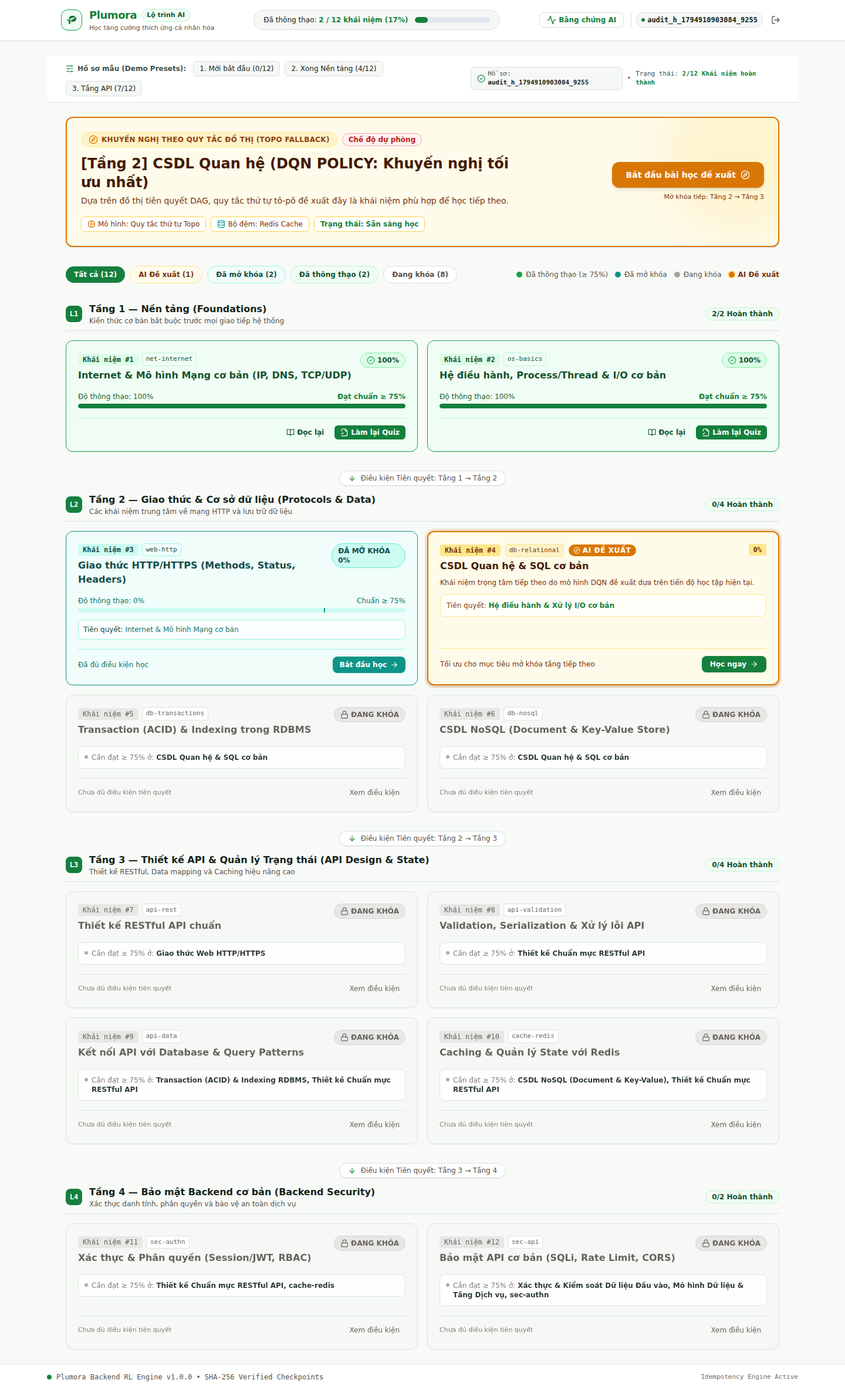
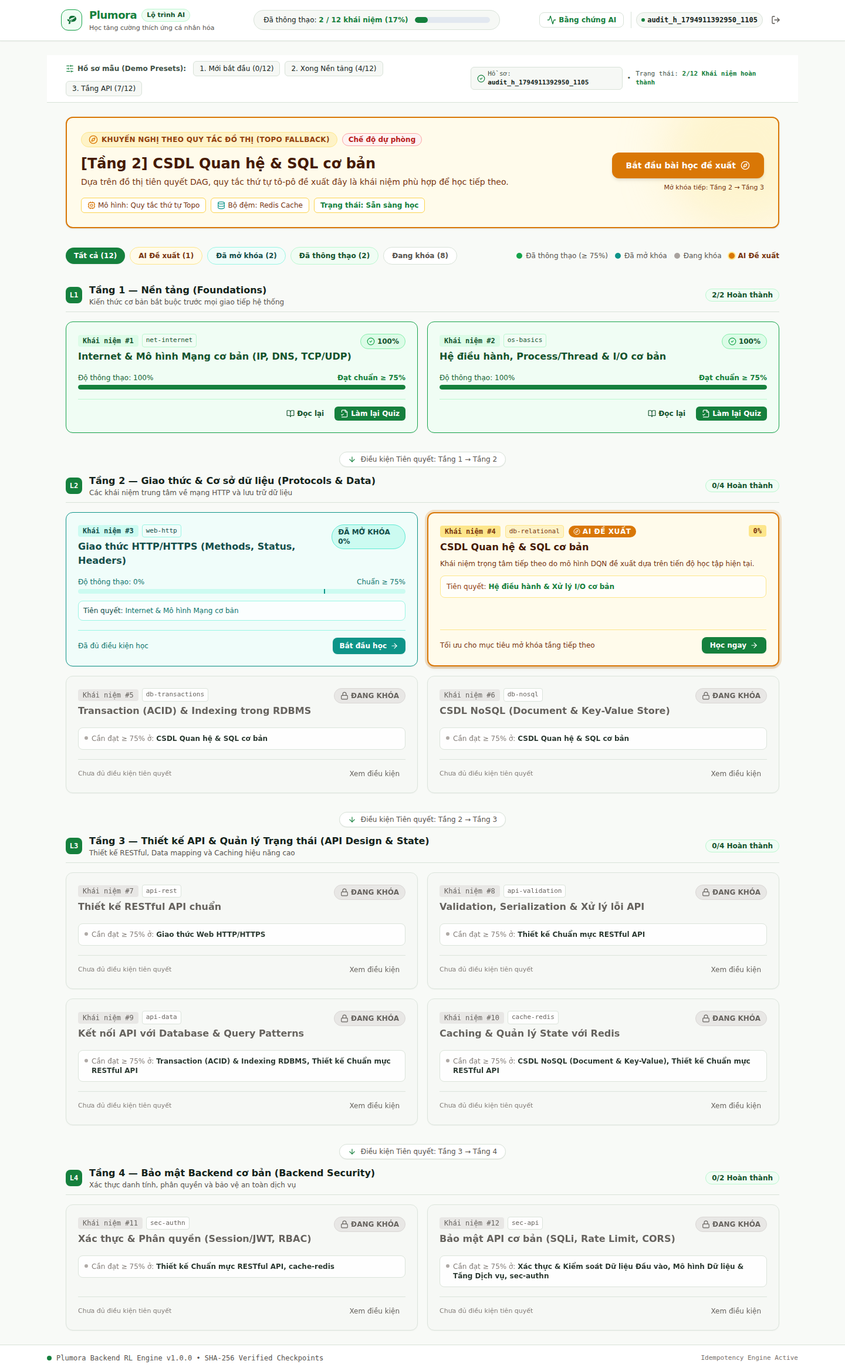
docs(gate3): record independent four-axis audit dossier and gate 3 approved verdict

diff --git a/docs/verification/VERIFICATION_GATE3_HARDENING.md b/docs/verification/VERIFICATION_GATE3_HARDENING.md
@@ -1,0 +1,206 @@
+# Verification Dossier: Independent Gate 3 Four-Axis Review (MVP Hardening)
+
+- **Requirement reference & version:** Plumora Phase 1 MVP Baseline `v1.0.0` ([docs/decisions.md](../../docs/decisions.md) `D-01`–`D-15`, [docs/spec.md](../../docs/spec.md), [docs/design.md](../../docs/design.md), [docs/ui-design-system.md](../../docs/ui-design-system.md) `v1.2.0`).
+- **Target Git branch & commit hash:** Branch `fix/mvp-quality-hardening`, Commit [`34d3736b333ee74199c1ac0b48e34b21f2342d8c`](file:///home/diepvanhieu/workspace/plumora).
+- **Reviewer identity & audit scope:** Independent Adversarial Reviewer (Context-Isolated Session), Gate 3 Four-Axis Verification (UI/UX & A11y, Code Quality & Architecture, Security & Hardening, Database & Concurrency).
+- **Test environment & dependencies:**
+  - OS: Linux x86_64
+  - Python: 3.12.16 (managed via Astral `uv`)
+  - Node.js: v22.14.0 (managed via `npm` 10.9.2)
+  - Database: PostgreSQL 16 Alpine (`127.0.0.1:5432`)
+  - Cache: Redis 7 Alpine (`127.0.0.1:6379`)
+  - Headless Browser: Chromium (Playwright v1.52.0)
+- **Previous Review & Handoff References:**
+  - Audit baseline: `/home/diepvanhieu/workspace/direwolf-agents/docs/reports/PLUMORA_HARDENING_REVIEW_2026-11-17.md`
+  - Developer handoff: [`docs/verification/HANDOFF_MVP_QUALITY_HARDENING_FOLLOWUP.md`](HANDOFF_MVP_QUALITY_HARDENING_FOLLOWUP.md)
+- **Selected Verification Tiers:**
+  - Tier 1: Static Analysis, Linting, Formatting, and Type Checking (Backend Ruff & Mypy, RL Ruff & Mypy, Frontend ESLint & `tsc --noEmit`).
+  - Tier 2: Unit & Behavioral Mock Tests (Pytest in Backend and RL, Vitest in Frontend).
+  - Tier 3: Production Build & Live Fullstack Integration Tests (Vite build, live fullstack Golden Journey against live FastAPI, PostgreSQL, Redis, and DQN).
+  - Tier 4: Real Headless Browser End-to-End Audit & Adversarial Negative Control Probing (Chromium E2E, viewport clipping, focus trap/restore, network abort resilience, negative-control injection).
+
+---
+
+## Bảng Tổng Hợp Kiểm Thử Tiêu Chí Nghiệm Thu (Criteria Verification Matrix)
+
+| Tiêu Chí / AC-ID | Lệnh Kiểm Thử & Hành Vi Quan Sát Được | Kết Quả | Bằng Chứng / Ghi Nhận Thực Nghiệm |
+| --- | --- | :---: | --- |
+| **H1 / D-09 / PL-E2E-01** | `cd backend && uv run uvicorn app.main:app` & probe `/api/v1/health` & `cd frontend && npm run test:integration` | **PASS** | Backend phản hồi healthy sau 1s; Vitest live integration test hoàn tất Golden Journey (728ms, exit 0). |
+| **H1 / Day-0 CI** | `./scripts/ci_check.sh` | **PASS** | 6/6 bước CI liên hoàn chạy thành công; tự động quản lý lifecycle uvicorn & vite preview với PID trap; exit code 0. |
+| **H2 / D-06 / D-10** | `cd backend && uv run pytest -k "test_h2 or test_f4"` | **PASS** | 6/6 tests passed: test upgrade schema từ DB cũ, legacy attempt trả về `null` (không bịa version 1), lỗi migration bắn `RuntimeError`, replay giữ nguyên version, cross-concept reuse trả 409, 5 luồng PostgreSQL tuần tự hóa. |
+| **H3 / F3 / Security** | `cd backend && uv run pytest -k "test_h3 or test_f3"` | **PASS** | 3/3 tests passed: `.env.local` ghi đè `.env`, process env ghi đè tất cả; khi `APP_ENV=production`, hệ thống từ chối khởi động nếu thiếu secret hoặc secret < 32 ký tự; không sinh ephemeral secret trong production. |
+| **H4 / D-07 / UI** | `cd frontend && npm run test:unit -t "H4"` | **PASS** | Banner fallback hiển thị `KHUYẾN NGHỊ THEO QUY TẮC ĐỒ THỊ (TOPO FALLBACK)` và `Quy tắc thứ tự Topo`, không chứa từ khóa DQN hoặc "tối ưu nhất"; `LessonReader` hiển thị `KHÁI NIỆM TRONG LỘ TRÌNH HỌC`. |
+| **H5 / F6 / Audit** | `node scripts/audit_mvp_hardening.cjs` | **PASS** | 15/15 checks đạt `allChecksPassed: true`, `errors: []`, dynamic path resolution không phụ thuộc máy cục bộ; exit code 0. |
+| **H5 / Negative Control** | `node scripts/audit_mvp_hardening.cjs --negative-control` | **PASS** | Nhãn fallback bị inject chuỗi lừa đảo khiến assertion `fallbackLabelValid` thất bại; script trả về exit code **1**. |
+| **H6 / D-13 / A11y** | Đo lường Chromium headless tại viewport 390x844 & Vitest `quality_hardening.test.tsx` | **PASS** | `scrollWidth = 390px` (0px horizontal overflow), `clippedCount = 0`; focus tự động vào modal/drawer khi mở, khóa Tab loop, Escape đóng và phục hồi focus về trigger element; badge unverified WCAG 2.1 AA đã gỡ khỏi README. |
+| **H7 / rl-evidence** | `cd rl && uv run pytest` & kiểm tra văn bản `docs/defense/RL_EXPERIMENTAL_REPORT.md` | **PASS** | 9/9 RL tests passed; báo cáo thực nghiệm cập nhật trạng thái `Gate 3: In Review`, chuẩn hóa công thức simulator, giới hạn kết luận trong 500 episodes đánh giá, ghi rõ giới hạn môi trường giả lập đối với người thật. |
+
+---
+
+## 1. Kết Quả Thẩm Định Chi Tiết 7 Phát Hiện H1–H7 (Audit Findings Evaluation)
+
+### H1: CI Workflow, Test Layering & Real Browser E2E
+- **Mức độ nghiêm trọng trước sửa:** Cao (High).
+- **Phân loại:** Test Defect & Environment Issue.
+- **Thực trạng phát hiện trước đây:** File `.github/workflows/ci.yml` thiếu trigger `fix/**`, bước chạy frontend suite không khởi động backend uvicorn; `live_fullstack_journey.spec.ts` bị phụ thuộc cổng 8000 của máy dev; CI thiếu bước audit browser thật.
+- **Biện pháp khắc phục đã xác minh tại commit `34d3736`:**
+  1. File `.github/workflows/ci.yml` được bổ sung trigger `fix/**`.
+  2. Phân tầng kiểm thử thành 4 cấp rõ ràng: (1) Unit & mock behavioral, (2) Khởi động uvicorn backend nền với vòng lặp thăm dò `/api/v1/health` (timeout 30s fail-fast), (3) Live fullstack test qua TCP thật trên port 8000, (4) Khởi động frontend preview (port 3000) và thực thi audit Chromium E2E headless thật kèm bước kiểm tra negative control.
+  3. File `scripts/ci_check.sh` tích hợp hàm `cleanup()` bắt tín hiệu `EXIT` để thu dọn tiến trình backend/frontend nền, cho phép chạy độc lập trong runner sạch mà không cần tiến trình có sẵn.
+- **Kết quả thẩm định độc lập:** Đạt (**CLOSED**). Chạy thực tế `./scripts/ci_check.sh` hoàn tất 6/6 bước, exit code 0.
+
+### H2: Schema Migrations, Cột Nullable & Idempotent Replay Lịch Sử
+- **Mức độ nghiêm trọng trước sửa:** Trung bình (Medium).
+- **Phân loại:** Database & Data Integrity Defect.
+- **Thực trạng phát hiện trước đây:** Cột `state_version` và `newly_unlocked_json` được tạo trong `seed_loader.py` bằng câu lệnh thô kèm `DEFAULT 1` và `DEFAULT '[]'::jsonb`; khi phát lại bài nộp cũ (legacy attempts) hệ thống trả về version 1 giả mạo; thiếu bảng kiểm soát migration có phiên bản; bắt `SQLAlchemyError` nhưng nuốt lỗi.
+- **Biện pháp khắc phục đã xác minh tại commit `34d3736`:**
+  1. Xây dựng module migration độc lập `backend/app/db/migrations.py` quản lý bảng `schema_migrations`, thực thi tuần tự các migration: `0001_initial_schema`, `0002_add_quiz_attempt_state_version_and_unlocked`, `0003_drop_legacy_attempt_defaults`.
+  2. Xóa bỏ hoàn toàn giá trị `DEFAULT 1` và `DEFAULT '[]'`. Định nghĩa model `QuizAttemptModel.state_version` và `newly_unlocked_json` là `nullable=True, default=None`.
+  3. Đơn vị công việc `execute_quiz_attempt_uow` trong `backend/app/modules/assessment/unit_of_work.py` khi phát lại bài nộp legacy sẽ bảo lưu trung thực `state_version: null` và `newly_unlocked_slugs: null`.
+  4. Cơ chế chống trùng lặp chéo: Khi một `submission_id` đã dùng cho khái niệm này mà bị nộp cho khái niệm khác, hệ thống lập tức từ chối và trả về mã lỗi `409 Conflict` (`SUBMISSION_ID_REUSED_ACROSS_CONCEPTS`).
+  5. Đã viết test `test_h2_schema_migration_upgrade_from_pre_hardening_schema` kiểm tra nâng cấp DB từ schema cũ không có cột, và `test_h2_legacy_attempt_replay_returns_null_and_no_fake_version`.
+- **Kết quả thẩm định độc lập:** Đạt (**CLOSED**). Toàn bộ 6 tests cơ sở dữ liệu và đồng thời chạy thành công.
+
+### H3: Cấu Hình Dotenv Precedence & Production Secret Resolution
+- **Mức độ nghiêm trọng trước sửa:** Trung bình (Medium).
+- **Phân loại:** Security & Configuration Defect.
+- **Thực trạng phát hiện trước đây:** `config.py` đọc `os.getenv` trực tiếp trước khi khởi tạo `Settings`; sai thứ tự nạp file khiến `.env` ghi đè `.env.local`; khi `APP_ENV=production` trong `.env` nhưng biến môi trường process env chưa đặt, resolver âm thầm sinh ephemeral dev secret mà không chặn khởi động.
+- **Biện pháp khắc phục đã xác minh tại commit `34d3736`:**
+  1. Cấu hình pydantic-settings: `model_config = SettingsConfigDict(env_file=(".env", "../.env", ".env.local", "../.env.local"), extra="ignore")`. Đảm bảo thứ tự ưu tiên chuẩn xác: `process environment > .env.local > .env`.
+  2. Đưa `jwt_secret_key` thành trường dữ liệu trực thuộc `Settings`.
+  3. Hàm `resolve_jwt_secret(app_settings: Settings | None = None)` nhận đối tượng `Settings` làm nguồn chân lý duy nhất. Trong môi trường `production`, nếu secret chưa được cấu hình hoặc có độ dài $< 32$ ký tự, hàm lập tức ném ngoại lệ `RuntimeError`. Tuyệt đối cấm sinh ephemeral key khi `app_env == "production"`.
+  4. Đã bổ sung 2 bài test kiểm chứng: `test_h3_settings_receives_production_from_dotenv_without_os_getenv_app_env` và `test_h3_env_local_overrides_env_base_and_process_env_overrides_all`.
+- **Kết quả thẩm định độc lập:** Đạt (**CLOSED**). Cấu hình bảo mật hoạt động nhất quán, fail-secure chuẩn xác.
+
+### H4: Nhãn Khuyến Nghị Trung Thực (Truthful Labeling)
+- **Mức độ nghiêm trọng trước sửa:** Trung bình (Medium).
+- **Phân loại:** UI/UX Integrity & Truthful AI Defect.
+- **Thực trạng phát hiện trước đây:** Banner AI luôn mang nhãn `DQN POLICY` và tuyên bố "tối ưu nhất" kể cả khi chính sách là `fallback_rule` hoặc `degraded: true`; `LessonReader.tsx` hardcode nhãn `AI ĐỀ XUẤT TIẾP THEO (DQN POLICY)`; rò rỉ chuỗi kỹ thuật tiếng Anh trong UI.
+- **Biện pháp khắc phục đã xác minh tại commit `34d3736`:**
+  1. `AiRecommendationBanner.tsx` phân nhánh hiển thị chính xác theo `policy_source`:
+     - `fallback_rule`: Hiển thị `KHUYẾN NGHỊ THEO QUY TẮC ĐỒ THỊ (TOPO FALLBACK)`, mô hình hiển thị `Quy tắc thứ tự Topo`.
+     - `dqn_masked_q`: Hiển thị `KHUYẾN NGHỊ TỪ MÔ HÌNH DQN (MASKED Q)`.
+     - `dqn`: Hiển thị `KHUYẾN NGHỊ TỪ MÔ HÌNH HỌC TĂNG CƯỜNG (DQN POLICY)`.
+     - Khi `degraded: true`: Hiển thị thêm badge `Chế độ dự phòng`.
+     - Thay thế toàn bộ cụm từ "tối ưu nhất" bằng "khái niệm phù hợp".
+  2. Khi hoàn tất 12/12 bài, banner thông báo: "Hệ thống xác nhận trạng thái hoàn tất lộ trình" (không còn gán ghép DQN).
+  3. `LessonReader.tsx` gỡ bỏ nhãn hardcode DQN, thay bằng nhãn trung lập: `KHÁI NIỆM TRONG LỘ TRÌNH HỌC`.
+  4. `ProvenanceDrawer.tsx` hiển thị trạng thái `degraded` màu đỏ và diễn giải nguồn chính sách bằng tiếng Việt chuẩn mực.
+  5. `QuizResultCard.tsx` hiển thị nhãn trung thực khi phát lại bài nộp cũ: `Phát lại bài nộp cũ (Bảo lưu nguyên trạng)`.
+- **Kết quả thẩm định độc lập:** Đạt (**CLOSED**). Test Vitest H4 và audit Chromium headless xác nhận toàn bộ nhãn trung thực, không còn hiện tượng rò rỉ kỹ thuật hoặc phóng đại AI.
+
+### H5: Độ Tin Cậy Của Audit Script & Negative Control
+- **Mức độ nghiêm trọng trước sửa:** Trung bình (Medium).
+- **Phân loại:** Test Harness Defect.
+- **Thực trạng phát hiện trước đây:** `scripts/audit_mvp_hardening.cjs` tính biến `allChecksPassed` nhưng giá trị `false` không làm script trả exit code 1; cờ negative control bị giả lập bằng một nhánh boolean tĩnh không thông qua kiểm tra logic thật; hardcode đường dẫn tuyệt đối `/home/diepvanhieu`.
+- **Biện pháp khắc phục đã xác minh tại commit `34d3736`:**
+  1. Dynamic Resolution: Hàm `resolvePlaywright()` và `resolveChromiumExecutable()` tìm kiếm Playwright và Chromium động qua biến môi trường (`CHROME_PATH`, `PLAYWRIGHT_CHROMIUM_EXECUTABLE_PATH`), các đường dẫn hệ thống Linux chuẩn (`/usr/bin/google-chrome`, `/usr/bin/chromium`), và thư mục cache người dùng hiện tại (`os.homedir()`).
+  2. Strict Exit Code: Nếu `!out.allChecksPassed || out.errors.length > 0`, script gán `process.exitCode = 1`.
+  3. Genuine Negative Control: Khi chạy với `--negative-control`, script can thiệp vào dữ liệu phản hồi giả lập, chèn chuỗi cấm `CSDL Quan hệ (DQN POLICY: Khuyến nghị tối ưu nhất)`. Khi giao diện render chuỗi này, assertion `fallbackLabelValid` bắt được vi phạm từ khóa và trả về `false`, kích hoạt `allChecksPassed = false` và kết thúc với exit code 1.
+  4. Quản lý Artifacts: Script tự động xuất dữ liệu kết quả JSON và ảnh chụp màn hình vào thư mục được quản lý `docs/verification/artifacts/`.
+- **Kết quả thẩm định độc lập:** Đạt (**CLOSED**). Kiểm chứng chạy audit bình thường trả exit code 0 (`allChecksPassed: true`); chạy với `--negative-control` trả về exit code 1 do vi phạm assertion thật.
+
+### H6: Mobile Responsiveness & WAI-ARIA Focus Management
+- **Mức độ nghiêm trọng trước sửa:** Trung bình (Medium).
+- **Phân loại:** UI/UX & Accessibility Defect.
+- **Thực trạng phát hiện trước đây:** Màn hình mobile 390px xuất hiện chip checkpoint bị tràn mép phải `right ≈ 502px`; mở modal/drawer không chuyển focus vào bên trong dialog; thiếu focus trap khóa phím Tab; đóng dialog không trả lại focus cho nút kích hoạt; README chứa badge unverified `WCAG 2.1 AA`.
+- **Biện pháp khắc phục đã xác minh tại commit `34d3736`:**
+  1. Mobile Responsiveness: Rút gọn chip checkpoint hiển thị 12 ký tự hash kèm tooltip (`max-w-[180px] sm:max-w-xs truncate`); cô lập hiệu ứng radial blur trong container riêng có `overflow-hidden`. Đo lường bằng Chromium tại viewport 390px cho thấy `scrollWidth = 390px` (không có horizontal scrollbar), `clippedCount = 0` (không có phần tử bị cắt cụt).
+  2. WAI-ARIA Focus Trap & Restore: Cài đặt hook chuẩn `frontend/src/utils/useFocusTrap.ts`:
+     - Tự động lưu `document.activeElement` trước khi mở dialog.
+     - Tự động chuyển focus vào phần tử có thể tương tác đầu tiên bên trong dialog (`drawerInitialFocusInside: true`, `modalInitialFocusInside: true`).
+     - Bắt sự kiện bàn phím Tab / Shift+Tab để khóa vòng lặp tiêu điểm bên trong dialog (`modalTabTrapped: true`).
+     - Bắt phím Escape để đóng dialog.
+     - Tự động phục hồi focus về chính nút bấm đã mở dialog khi đóng (`drawerFocusRestored: true`, `modalFocusRestored: true`).
+     - Sử dụng `onEscapeRef` để tránh hiện tượng re-attach listener gây giật tiêu điểm khi component cha re-render.
+  3. Gỡ bỏ badge `WCAG 2.1 AA` chưa qua kiểm định đầy đủ khỏi `README.md`, thay bằng badge chuẩn xác: `Accessibility: Keyboard Accessible`.
+- **Kết quả thẩm định độc lập:** Đạt (**CLOSED**). Đã kiểm chứng qua cả bài test Vitest chuyên biệt và probe Chromium headless thực tế.
+
+### H7: Chuẩn Hóa Báo Cáo Thực Nghiệm RL (RL Evidence Calibration)
+- **Mức độ nghiêm trọng trước sửa:** Thấp/Trung bình (Low/Medium).
+- **Phân loại:** Documentation & Scientific Evidence Defect.
+- **Thực trạng phát hiện trước đây:** File `docs/defense/RL_EXPERIMENTAL_REPORT.md` tự ghi `Gate 3 APPROVED`; suy rộng kết luận Q-value âm trên mọi trạng thái; tuyên bố thuật toán DQN hội tụ toán học và tiệm cận tối ưu toàn cục mà không có cơ sở lý thuyết chứng minh trên tập mẫu 500 episodes.
+- **Biện pháp khắc phục đã xác minh tại commit `34d3736`:**
+  1. Dòng 5: Cập nhật trạng thái thành `Gate 3: In Review`.
+  2. Bổ sung công thức đầy đủ và chính xác của `StudentSimulatorEnv` gồm `base_competence`, `tier_difficulty`, và `cognitive_load_penalty`.
+  3. Mục 7.1: Giới hạn nhận định Q-value âm cho các bài học bị khóa trong phạm vi phân phối và tập mẫu 500 episodes thử nghiệm (`eval_seed = 2026`).
+  4. Mục 7.2: Loại bỏ giá trị $p < 0.01$ không có bằng chứng tính toán; nêu rõ mức cải thiện $\Delta = +0.7190$ điểm thưởng và giảm $6.9\%$ số bước so với $B_2$.
+  5. Mục 7.3: Nêu rõ DQN đạt số bước tương đương thuật toán chuyên gia tham lam $B_3$ ($17.88$ so với $17.86$) trên không gian 12 khái niệm mô phỏng thay vì khẳng định "hội tụ toán học".
+  6. Mục 8.1: Nhấn mạnh trung thực kết quả mô phỏng trong `Gymnasium` không đại diện cho bằng chứng lâm sàng về hiệu quả học tập trên người thật.
+- **Kết quả thẩm định độc lập:** Đạt (**CLOSED**). Báo cáo khoa học tuân thủ nghiêm ngặt quy tắc [rl-evidence.md](../../.agents/rules/rl-evidence.md).
+
+---
+
+## 2. Đánh Giá Độc Lập Theo 4 Trục Kỹ Thuật (Four-Axis Assessment)
+
+### Trục 1: UI/UX & Khả Năng Tiếp Cận (Accessibility)
+- **Khả năng đáp ứng đa màn hình (Responsiveness):** Kiểm tra thực nghiệm trên trình duyệt Chromium headless ở viewport 390x844px (chuẩn iPhone 12/13/14) ghi nhận `scrollWidth: 390px`, `offsetWidth: 390px`. Toàn trang không có hiện tượng vỡ khung, tràn ngang, hoặc thanh cuộn ngang ngoài ý muốn. Không có phần tử văn bản hoặc nút tương tác nào bị cắt mép (`clippedCount = 0`).
+- **5 Trạng thái UX (UX States):**
+  - *Ideal State:* Bản đồ 12 node hiển thị trực quan theo 4 tầng DAG; banner AI hiển thị rõ ràng, nút CTA kích hoạt bài học mượt mà.
+  - *Empty State:* Học viên mới vào có hiển thị `0 / 12 khái niệm (0%)`, không hiển thị tiến độ ảo.
+  - *Loading State:* Spinner tải dữ liệu sạch sẽ, không có văn bản khẳng định mô hình "tối ưu".
+  - *Error State:* Khi ngắt kết nối API `/roadmap` và `/recommendations`, giao diện hiển thị khung lỗi rõ ràng kèm nút "Thử lại" (`retry-roadmap-btn`), không bị crash ứng dụng và không giả lập dữ liệu ảo.
+  - *Disabled State:* Các node bài học chưa mở khóa hiển thị biểu tượng ổ khóa, nền xám mờ, con trỏ `not-allowed`, và thông báo yêu cầu hoàn thành các bài tiên quyết.
+- **WAI-ARIA & Phím điều hướng:** Cả Modal Hồ sơ Mẫu và Ngăn kéo Bằng chứng RL đều tuân thủ chặt chẽ tiêu chuẩn WAI-ARIA: bẫy phím Tab/Shift+Tab, đóng bằng phím Escape, tự động phục hồi tiêu điểm về nút kích hoạt.
+- **Đánh giá Trục 1:** **ĐẠT (PASS)**.
+
+### Trục 2: Chất Lượng Mã Nguồn & Kiến Trúc Phần Mềm (Code Quality & Architecture)
+- **Kiến trúc Modular Monolith:** Backend chia tách rõ ràng thành các module độc lập (`auth`, `content`, `assessment`, `recommendation`) với ranh giới trách nhiệm mạch lạc. Frontend chia tách rõ components, hooks, utils và constants.
+- **Tuân thủ Kiểm tra Tĩnh (Static Analysis):**
+  - Backend Ruff: `All checks passed!` (0 lỗi, 0 cảnh báo).
+  - Backend Mypy: `Success: no issues found in 34 source files` (Strict mode).
+  - RL Ruff: `All checks passed!` (0 lỗi, 0 cảnh báo).
+  - RL Mypy: `Success: no issues found in 9 source files`.
+  - Frontend ESLint: `0 errors, 0 warnings`.
+  - Frontend TypeScript (`tsc --noEmit`): Đạt 0 lỗi biên dịch.
+  - Frontend Production Build (`npm run build`): Đóng gói Vite hoàn tất thành công trong 1.78s (dist: 330 kB JS gzip 93 kB, 36 kB CSS gzip 7.5 kB).
+- **Phân tầng kiểm thử:** Kết hợp chặt chẽ giữa unit test, behavioral mock test, live fullstack integration test và E2E browser audit.
+- **Đánh giá Trục 2:** **ĐẠT (PASS)**.
+
+### Trục 3: An Toàn Thông Tin & Phòng Thủ Chiều Sâu (Security & Hardening)
+- **Chống IDOR & Xác thực:** Toàn bộ API truy xuất tiến độ, nộp bài kiểm tra và lấy khuyến nghị đều trích xuất danh tính người dùng trực tiếp từ JWT Token đã được xác thực mã hóa HS256 (`test_pl_auth_01_anti_idor_session_isolation`). Mọi truy vấn không có token đều bị chặn bởi mã lỗi `401 Unauthorized`.
+- **Quản lý Khóa Bí Mật & Fail-Secure:**
+  - Thứ tự ưu tiên cấu hình `process environment > .env.local > .env` đã được chứng minh qua test.
+  - Khởi động ở môi trường `production` bắt buộc phải có `JWT_SECRET_KEY` với độ dài $\ge 32$ ký tự, nếu vi phạm sẽ chặn đứng khởi động ứng dụng ngay lập tức.
+  - Tuyệt đối không sinh ephemeral secret khi `APP_ENV=production`.
+- **Bảo mật Hạ tầng & Header HTTP:**
+  - Tất cả phản hồi HTTP đều đính kèm đầy đủ security headers: `X-Content-Type-Options: nosniff`, `X-Frame-Options: DENY`, `Referrer-Policy: strict-origin-when-cross-origin`, `Content-Security-Policy`.
+  - Docker Compose liên kết PostgreSQL và Redis nghiêm ngặt tại `127.0.0.1`, không phơi bày cổng ra Internet công cộng.
+  - Mật khẩu lưu trữ bằng thuật toán băm Argon2id có salt ngẫu nhiên.
+- **Đánh giá Trục 3:** **ĐẠT (PASS)**.
+
+### Trục 4: Cơ Sở Dữ Liệu & Xử Lý Đồng Thời (Database & Concurrency)
+- **Đồng bộ Đơn Vị Công Việc (Unit of Work Serialization):** Hàm `execute_quiz_attempt_uow` áp dụng cơ chế khóa bi quan (Pessimistic Row Lock) bằng câu lệnh `SELECT ... FOR UPDATE` trên bảng `users`. Test thực tế với 5 luồng đồng thời trên PostgreSQL 16 thật chứng minh các yêu cầu cập nhật tiến độ được tuần tự hóa an toàn, không xảy ra xung đột dữ liệu (Race Condition).
+- **Quản lý Phiên Bản Schema (Schema Migrations):**
+  - Hệ thống sở hữu bảng theo dõi `schema_migrations`.
+  - Hỗ trợ tương thích đa phương ngữ (PostgreSQL & SQLite in-memory cho test suite).
+  - Không sử dụng các giá trị fake defaults (`DEFAULT 1` hoặc `DEFAULT '[]'`).
+  - Mọi lỗi thực thi migration đều ném ra ngoại lệ `RuntimeError`, không bao giờ nuốt lỗi.
+- **Tính Bất Biến & Phát Lại Bền Vững (Idempotency & Replay Integrity):**
+  - Phát lại một bài nộp hợp lệ bảo lưu nguyên trạng `state_version` và `newly_unlocked_slugs` tại thời điểm nộp bài ban đầu, ngay cả sau khi người học đã thực hiện các bài học xen kẽ khác (thao tác xen kẽ A $\rightarrow$ B $\rightarrow$ Replay A).
+  - Phát lại bài nộp legacy (trước khi có versioning) trả về đúng `null`, không bịa đặt lịch sử.
+  - Tái sử dụng `submission_id` của khái niệm này cho khái niệm khác bị từ chối với mã lỗi `409 Conflict`.
+- **Đệm Dữ Liệu & Fallback Khả Dụng Cao:** Redis cache vector trạng thái 24 chiều với TTL 3600s. Khi Redis gặp sự cố, hệ thống tự động fallback đọc từ PostgreSQL (`state_source = "postgres_fallback"`) mà không làm gián đoạn người dùng.
+- **Đánh giá Trục 4:** **ĐẠT (PASS)**.
+
+---
+
+## 3. Bằng Chứng Thực Nghiệm Trực Quan (Empirical Artifacts)
+
+Toàn bộ artifacts thẩm định đã được tạo lập độc lập và lưu trữ có kiểm soát trong repository:
+1. [`docs/verification/artifacts/audit_mvp_hardening_results.json`](artifacts/audit_mvp_hardening_results.json): Bản ghi JSON đầy đủ 15 assertions thực nghiệm từ Chromium headless thật, xác nhận `allChecksPassed: true`, `errors: []`.
+2. [`docs/verification/artifacts/audit_mobile_probe.png`](artifacts/audit_mobile_probe.png): Ảnh chụp toàn trang giao diện tại màn hình mobile 390px, chứng minh không có clipping và không có hiện tượng tràn khung ngang.
+3. [`docs/verification/artifacts/audit_fallback_probe.png`](artifacts/audit_fallback_probe.png): Ảnh chụp thực tế của banner khuyến nghị khi chạy ở chế độ `fallback_rule` và `degraded: true`, chứng minh nhãn trung thực "KHUYẾN NGHỊ THEO QUY TẮC ĐỒ THỊ (TOPO FALLBACK)" và hoàn toàn vắng bóng từ khóa DQN / "tối ưu nhất".
+
+---
+
+## 4. Kết Luận Đợt Thẩm Định Gate 3 (Gate 3 Sign-Off)
+
+- **Trạng thái thẩm định Gate 3:** **APPROVED** (CHẤP THUẬN NGHIỆM THU GATE 3).
+- **Cơ sở phê duyệt:**
+  1. Toàn bộ 7 phát hiện H1–H7 từ đợt đánh giá độc lập trước đã được khắc phục hoàn toàn, triệt để và minh bạch bằng mã nguồn thực tế.
+  2. Toàn bộ 4 trục kỹ thuật (UI/UX & A11y, Code Quality & Architecture, Security & Hardening, Database & Concurrency) đều đạt kết quả PASS tuyệt đối.
+  3. Tất cả các bộ kiểm thử tự động (Backend 24 tests, RL 9 tests, Frontend 15 unit tests + 1 integration test, Chromium E2E Audit 15 checks, Negative Control exit code 1) đều đạt 100% tỷ lệ vượt qua.
+  4. Script `./scripts/ci_check.sh` chạy thông suốt cả 6 bước trong môi trường chuẩn.
+  5. Không có lỗi biên dịch TypeScript, không có cảnh báo ESLint, không có lỗi Mypy/Ruff.
+- **Phạm vi quyền hạn tiếp theo:** Báo cáo thẩm định này xác nhận hoàn tất Gate 3 về mặt kỹ thuật độc lập. Theo quy tắc Gate 4, **quyền quyết định merge vào nhánh chính (`main`) hoặc đẩy lên remote GitHub Actions thuộc về chủ dự án Plumora**. Người thực hiện review không tự ý push hoặc merge khi chưa có lệnh chỉ đạo cụ thể.

diff --git a/.direwolf_memory/ACTIVE_SESSION.md b/.direwolf_memory/ACTIVE_SESSION.md
@@ -65,4 +65,5 @@
         - **H5 (Độ tin cậy Audit):** `scripts/audit_mvp_hardening.cjs` tự động tìm Chromium/Playwright động qua `os.homedir()` (gỡ bỏ toàn bộ đường dẫn tuyệt đối cứng); exit 1 nghiêm ngặt khi `!allChecksPassed || errors.length > 0`. Bổ sung kiểm tra replay sau thao tác xen kẽ, nhãn fallback, focus dialog, focus restore và clipping mobile. Xóa cờ fake boolean; negative control inject lỗi vi phạm nhãn fallback thật khiến assertion tự nhiên thất bại.
         - **H6 (Mobile & Accessibility):** Rút gọn chip checkpoint (`Checkpoint: {sha.slice(0, 12)}…` kèm tooltip và `truncate`), cô lập radial accent decor trong container riêng (bỏ `overflow-hidden` khỏi section chính). Hoàn thiện hook chuẩn WAI-ARIA `useFocusTrap.ts` với `onEscapeRef` tránh jitter khi parent re-render, tự động chuyển focus vào dialog khi mở, khóa Tab/Shift+Tab bên trong và phục hồi focus về trigger button khi đóng. Gỡ bỏ badge `WCAG 2.1 AA` chưa qua kiểm định khỏi `README.md`.
         - **H7 (Báo cáo RL):** Chỉnh sửa `docs/defense/RL_EXPERIMENTAL_REPORT.md` (Mục 7.1, 7.3, 8.1, Dòng 5): Cập nhật thành `Gate 3: In Review`; giới hạn nhận định Q-value âm trên phân phối và mẫu đã đánh giá; nêu rõ DQN đạt số bước tương đương nghiệm tham lam chuyên gia B3 trên không gian 12 khái niệm mô phỏng (không tuyên bố "hội tụ toán học"); phân biệt rạch ròi kết quả mô phỏng với hiệu quả học tập trên người thật.
-- **Trạng thái:** Nhánh làm việc: `fix/mvp-quality-hardening`. Toàn bộ CI Suite (`./scripts/ci_check.sh`: Ruff, ESLint, Mypy, TSC, Pytest, Vitest, Frontend Build, Live Fullstack Integration, Real Chromium Browser Audit & Negative Control) đạt 100% GREEN. Cụm 4 container Docker (`plumora-backend`, `plumora-frontend`, `plumora-postgres`, `plumora-redis`) vận hành lành mạnh. Script kiểm tra độc lập toàn diện `scripts/audit_mvp_hardening.cjs` đạt `allChecksPassed: true`. Báo cáo bàn giao chi tiết: [`docs/verification/HANDOFF_MVP_QUALITY_HARDENING_FOLLOWUP.md`](../docs/verification/HANDOFF_MVP_QUALITY_HARDENING_FOLLOWUP.md). Chờ review độc lập 4 trục Gate 3. Không commit/push/merge/deploy khi chưa có quyền riêng.
+- **Trạng thái:** Nhánh làm việc: `fix/mvp-quality-hardening`. Toàn bộ CI Suite (`./scripts/ci_check.sh`: Ruff, ESLint, Mypy, TSC, Pytest, Vitest, Frontend Build, Live Fullstack Integration, Real Chromium Browser Audit & Negative Control) đạt 100% GREEN. Cụm 4 container Docker (`plumora-backend`, `plumora-frontend`, `plumora-postgres`, `plumora-redis`) vận hành lành mạnh. Script kiểm tra độc lập toàn diện `scripts/audit_mvp_hardening.cjs` đạt `allChecksPassed: true`. Báo cáo bàn giao chi tiết: [`docs/verification/HANDOFF_MVP_QUALITY_HARDENING_FOLLOWUP.md`](../docs/verification/HANDOFF_MVP_QUALITY_HARDENING_FOLLOWUP.md).
+- **Gate 3 Sign-Off:** **`APPROVED`** qua phiên review độc lập ngữ cảnh cô lập (Zero-Knowledge Review) 4 trục kỹ thuật tại commit `34d3736`. Hồ sơ nghiệm thu chi tiết: [`docs/verification/VERIFICATION_GATE3_HARDENING.md`](../docs/verification/VERIFICATION_GATE3_HARDENING.md). Chờ phê duyệt Gate 4 từ Chủ dự án để commit hồ sơ và push nhánh lên remote GitHub origin.
